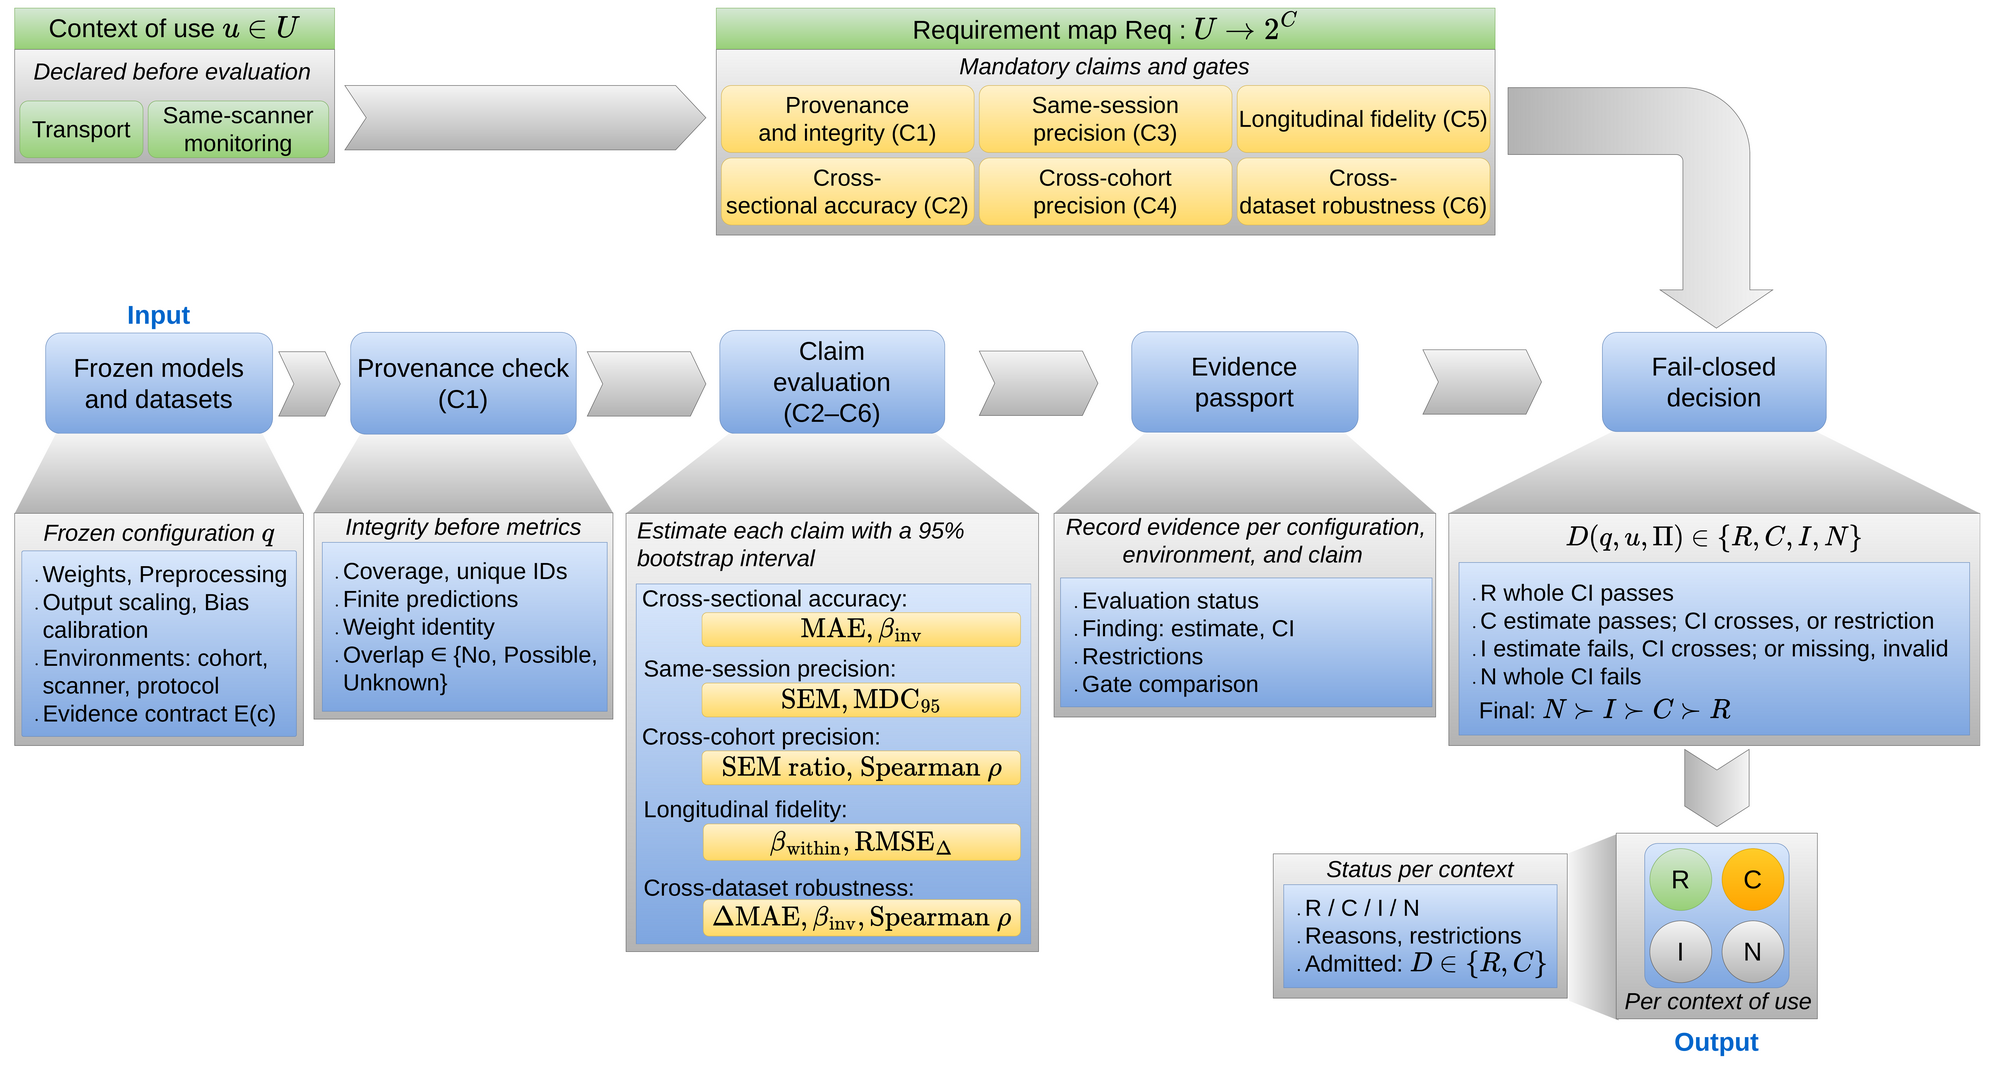
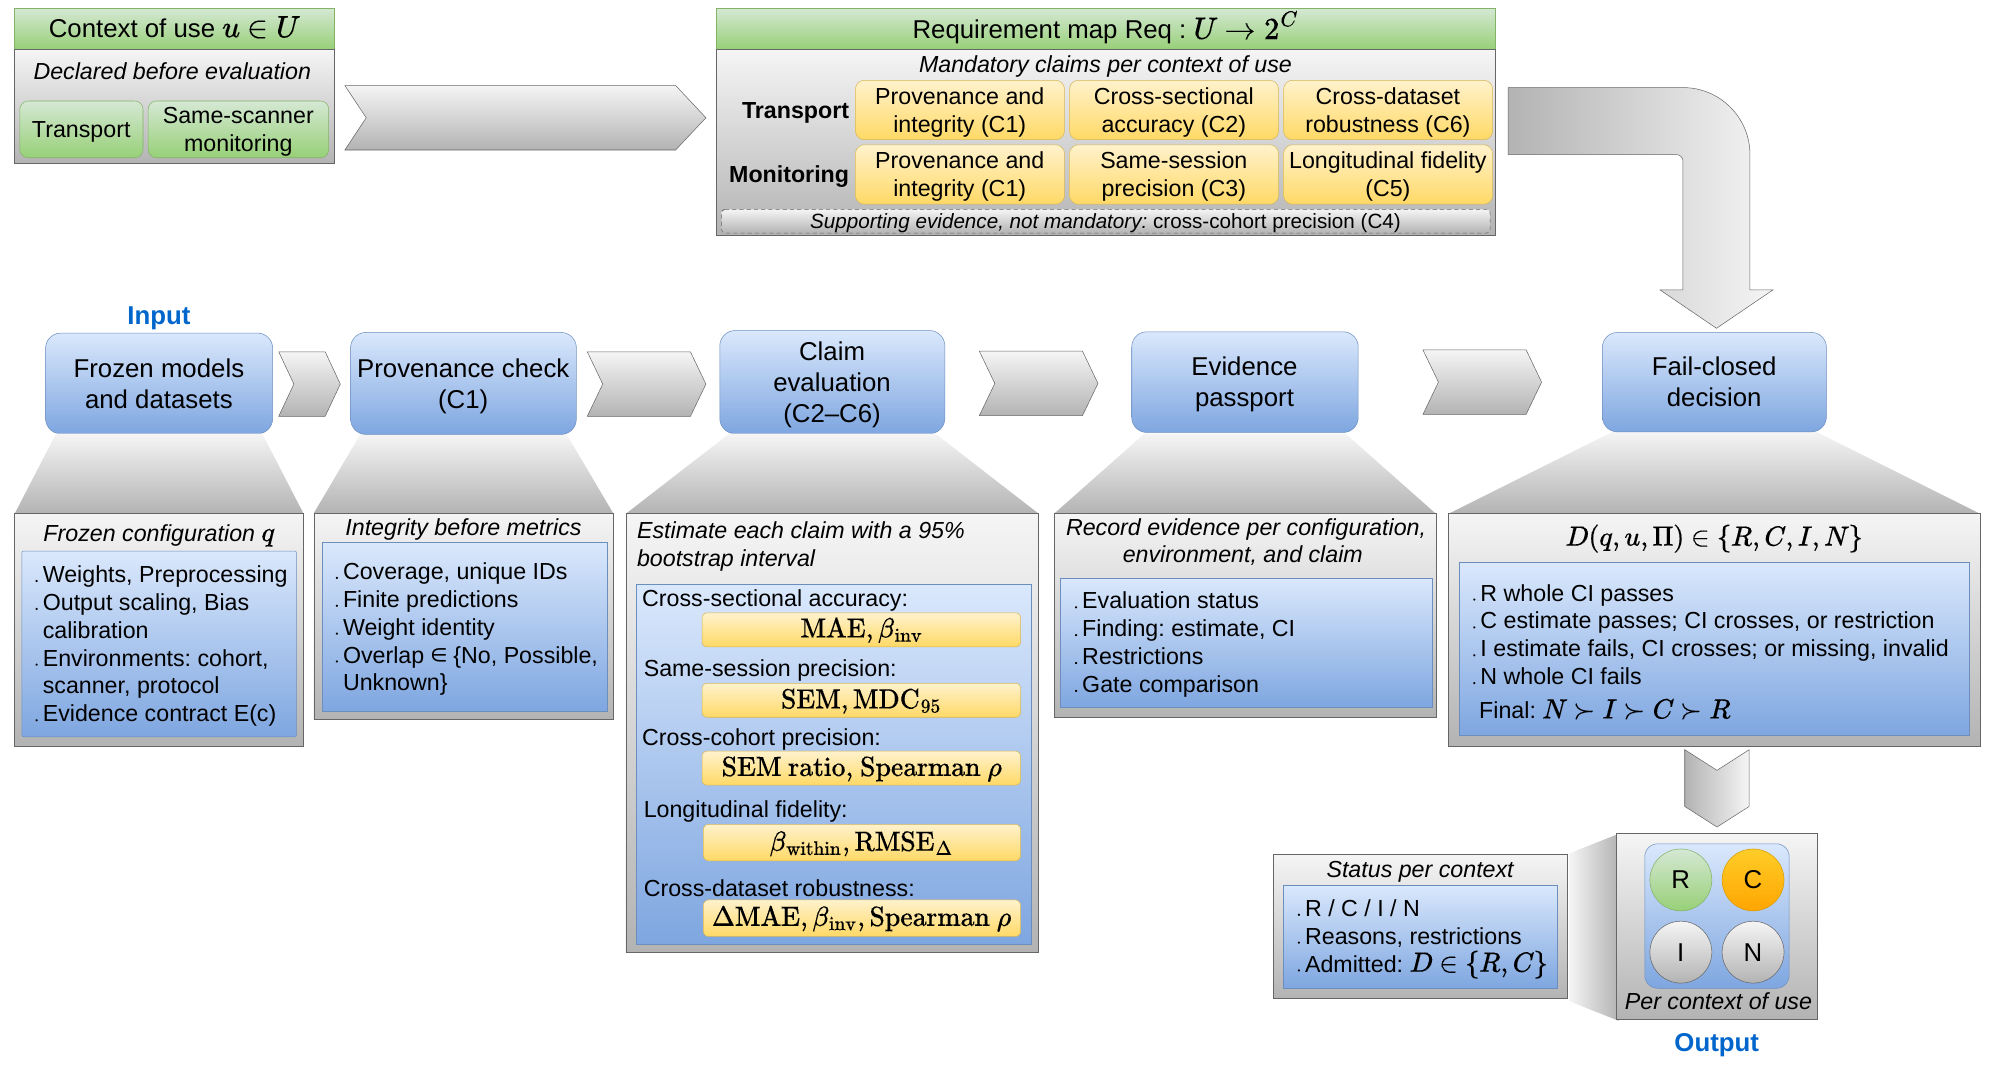
Add configuration manifest; update Fig. 1; align NACC, PPMI and status text with the revised paper

diff --git a/index.html b/index.html
@@ -36,6 +36,7 @@
     <a href="#results">Results</a>
     <a href="#independent">PPMI test</a>
     <a href="#nacc">NACC SCAN test</a>
+    <a href="#configurations">Configurations</a>
     <a href="#citation">Citation</a>
     <a href="#acknowledgments">Acknowledgments</a>
   </div>
@@ -153,7 +154,7 @@
     <div class="statuses">
       <div class="status"><span class="chip r">R</span><span>Rule-compliant: every mandatory claim evaluated, every gate passed by its whole 95% interval, and no provenance restriction.</span></div>
       <div class="status"><span class="chip c">C</span><span>Conditionally rule-compliant: every gate passed on its point estimate, but an interval crosses a gate or a provenance restriction applies.</span></div>
-      <div class="status"><span class="chip i">I</span><span>Insufficient evidence: a mandatory claim missing or invalid, or a gate failed on its point estimate while its interval still reaches the acceptable side.</span></div>
+      <div class="status"><span class="chip i">I</span><span>Insufficient evidence: a mandatory claim or a gated estimate's interval missing or invalid, or a gate failed on its point estimate while its interval still reaches the acceptable side.</span></div>
       <div class="status"><span class="chip n">N</span><span>Not rule-compliant: a gate failed by its whole interval.</span></div>
     </div>
     <p>The final status is the most severe outcome (N &succ; I &succ; C &succ; R). The four outcomes correspond to the
@@ -232,8 +233,8 @@
     <h2>Test of gate values in PPMI</h2>
     <p>The candidate gate set was tested in PPMI healthy controls, which no configuration had processed and no training
     had used. Gates anchored to a model-independent reference, the MAE of predicting every participant as the cohort's
-    own mean age, admitted three more configurations that met the target criterion and no more that failed, did at least
-    as well as the conventional gates in every one of 2,000 bootstrap replicates, and reduced false rejections from 15 to
+    own mean age, added three admissions (two distinct configurations) that met the target criterion and no more that failed, did at least
+    as well as the conventional gates in 1,998 of 2,000 bootstrap replicates (all 2,000 with the age-support check added), and reduced false rejections from 15 to
     12. In monitoring, the prespecified hypothesis that every configuration admitted under the 1.25-y change gate passes
     was not supported (DeepBrainNet failed), and loosening the gate to 1.69 y added one true and two false admissions, so
     the 1.25-y gate was kept. The age-support check removed no admission and was not adopted.</p>
@@ -253,11 +254,13 @@
   <section id="nacc">
     <h2>Prospectively specified test in NACC SCAN</h2>
     <p>The development gate set was tested without change in T1-weighted scans of the NACC SCAN program, which played no
-    part in constructing the framework or training any configuration; every status was fixed, and the samples, analysis,
+    part in constructing the framework or training any study-trained or adapted configuration (participant-level
+    independence could not be verified: NACC participants may be co-enrolled in ADNI, and no crosswalk exists); every status was fixed, and the samples, analysis,
     and interpretation criteria were finalized, before any SCAN prediction was computed. Both
     prespecified criteria for non-interchangeability were met: in the Siemens monitoring sample, 15 of 16 within-person
     slope intervals again lay entirely below one, and the pooled transport MAE and the monitoring change RMSE ranked 48 of
-    120 configuration pairs in opposite order. Of the seven configurations certified for monitoring by MAE alone, six had
+    120 configuration pairs in opposite order, 12 of them settled, also under a post hoc bootstrap that drew the
+    participants of both samples jointly. Of the seven configurations certified for monitoring by MAE alone, six had
     a change RMSE above that of the no-change predictor (1.60 y).</p>
 
     <div class="tiles">
@@ -290,6 +293,41 @@
     26.9% under the framework against 24.8% under MAE alone, so with SALD evidence the framework removed admissions
     without making the remaining ones more reliable; its error balance is favourable only when a false admission costs
     more than 1.6 (AIBL evidence) or 3.5 (SALD evidence) times a false rejection.</p>
+  </section>
+
+  <section id="configurations">
+    <h2>Configuration manifest</h2>
+    <p>Each of the 16 configurations is a frozen technical configuration: weights, preprocessing, input transforms,
+    output, and age-bias calibration. Outputs are predicted ages in years; transport and monitoring used them raw, and
+    brain-age-gap claims used a linear age-bias correction fitted on validation controls of the frozen subject-level
+    development split. Adapted models ran released weights on the study's common skull-stripped affine volumes instead
+    of their native preprocessing, which is recorded as a provenance restriction. The
+    <a href="static/data/CONFIGURATION_MANIFEST.csv">full manifest (CSV)</a> also lists every checkpoint file with its
+    SHA-256 checksum, the input shape, the origin of released weights, and the development&ndash;evaluation overlap by
+    evaluation role.</p>
+    <div class="table-wrap">
+      <table>
+        <thead><tr><th>Configuration</th><th>Class</th><th class="num">Members</th><th>Training data</th><th>Preprocessing</th><th>Licence</th></tr></thead>
+        <tbody>
+          <tr><td>SFCN ensemble</td><td>study-trained</td><td class="num">3</td><td>this study&#x27;s frozen training split (ADNI, IXI, OASIS-1, ABIDE-1 controls aged 55–90)</td><td>common frozen volumes</td><td>released with the study code</td></tr>
+          <tr><td>VCDA-Net ensemble</td><td>study-trained</td><td class="num">3</td><td>as SFCN ensemble</td><td>common frozen volumes</td><td>released with the study code</td></tr>
+          <tr><td>MedicalNet ResNet-18</td><td>study-trained</td><td class="num">1</td><td>MedicalNet 23-dataset segmentation pretraining, then this study&#x27;s frozen training split</td><td>common frozen volumes</td><td>released with the study code</td></tr>
+          <tr><td>MedicalNet ResNet-50</td><td>study-trained</td><td class="num">1</td><td>as MedicalNet ResNet-18</td><td>common frozen volumes</td><td>released with the study code</td></tr>
+          <tr><td>DeepBrainNet</td><td>released checkpoint</td><td class="num">1</td><td>not recorded; the release states n=11,729 scans from a &quot;highly diversified cohort&quot; without naming any study</td><td>released slice pipeline on common volumes</td><td>none stated</td></tr>
+          <tr><td>BrainAgeNeXt</td><td>released checkpoint</td><td class="num">5</td><td>not recorded</td><td>released ensemble transform on common volumes</td><td>CC BY-NC 4.0</td></tr>
+          <tr><td>SynthBA</td><td>released checkpoint</td><td class="num">1</td><td>synthetic images generated by domain randomisation from anatomical label maps; the source label maps are not recorded</td><td>released intensity/spatial transform on common volumes</td><td>MIT</td></tr>
+          <tr><td>MIDI T1 seed-60</td><td>released checkpoint</td><td class="num">1</td><td>&gt;23,000 axial head MRI from two UK hospitals (stated for the release&#x27;s T2 models; the T1 corpus is not separately described)</td><td>released post-registration transform on common volumes</td><td>CC BY-NC-ND 4.0 (unmodified copy)</td></tr>
+          <tr><td>Westman CNN1 (adapted)</td><td>released checkpoint, adapted input</td><td class="num">5</td><td>not recorded; the release states &gt;15,000 images from healthy individuals</td><td>common skull-stripped affine volumes replace rigid non-stripped inputs</td><td>MIT</td></tr>
+          <tr><td>Westman CNN2 (adapted)</td><td>released checkpoint, adapted input</td><td class="num">50</td><td>as Westman CNN1</td><td>common skull-stripped affine volumes replace rigid non-stripped inputs</td><td>MIT</td></tr>
+          <tr><td>Westman CNN4 (adapted)</td><td>released checkpoint, adapted input</td><td class="num">50</td><td>as Westman CNN1</td><td>common skull-stripped affine volumes replace rigid non-stripped inputs</td><td>MIT</td></tr>
+          <tr><td>Historical ResNet IXI (adapted)</td><td>released checkpoint, adapted input</td><td class="num">1</td><td>the same Icelandic dataset with transfer learning on IXI (440 images)</td><td>common affine volumes replace CAT12-derived inputs</td><td>none stated</td></tr>
+          <tr><td>Historical ResNet ICE (adapted)</td><td>released checkpoint, adapted input</td><td class="num">1</td><td>an Icelandic MRI dataset (1,264 healthy subjects), not publicly available</td><td>common affine volumes replace CAT12-derived inputs</td><td>none stated</td></tr>
+          <tr><td>de Lange XGBoost</td><td>fixed method, refitted</td><td class="num">1</td><td>no released weights; the published specification refitted on this study&#x27;s frozen training split</td><td>32-region common morphometry, fitted on the frozen training split</td><td>released with the study code</td></tr>
+          <tr><td>Multi-view transformer</td><td>study implementation</td><td class="num">1</td><td>this study&#x27;s frozen training split (ADNI, IXI, OASIS-1, ABIDE-1 controls aged 55–90)</td><td>common frozen volumes</td><td>released with the study code</td></tr>
+          <tr><td>Global--Local Transformer</td><td>study implementation</td><td class="num">3</td><td>this study&#x27;s frozen training split (ADNI, IXI, OASIS-1, ABIDE-1 controls aged 55–90)</td><td>common frozen volumes, three central-slice planes</td><td>released with the study code</td></tr>
+        </tbody>
+      </table>
+    </div>
   </section>
 
   <section id="citation">
